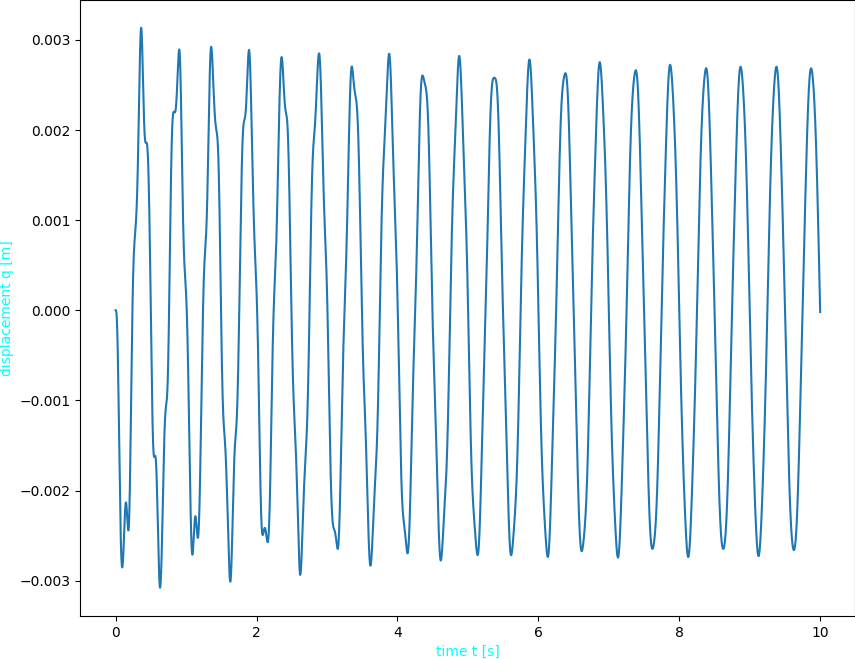
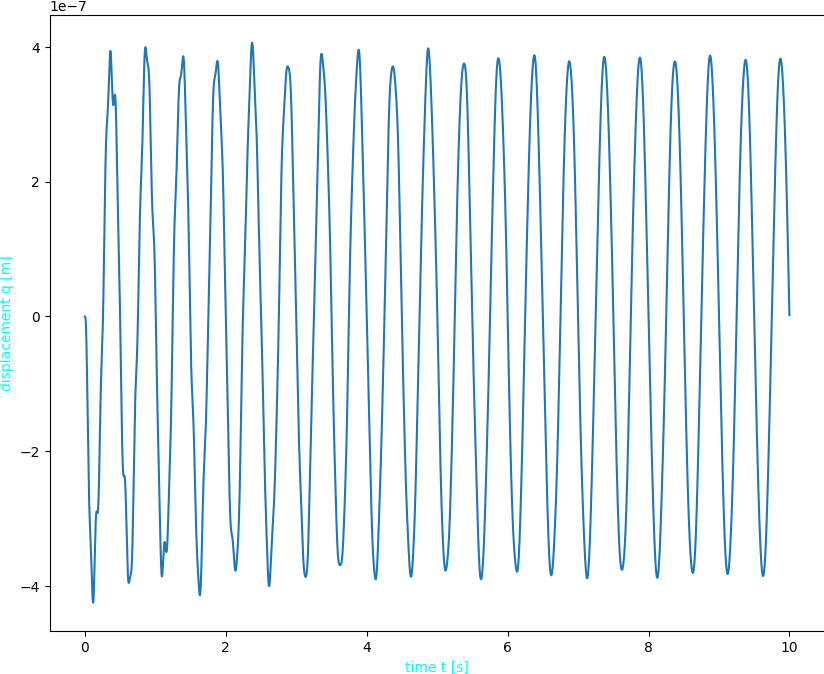
Craig bampton + Guyan Iron ok

diff --git a/part3/reduction_method.py b/part3/reduction_method.py
@@ -17,40 +17,51 @@ sys.path.append(parent_dir)
 from part1 import FEM, set_parameters
 from Tools_part3 import *
 
+
 def partition_matrices(K, M, retained_dofs):
 
     n = K.shape[0]
     condensed_dofs = np.array(sorted(list(set(range(n)) - set(retained_dofs))))
     retained_dofs = np.array(sorted(retained_dofs))
     
-    K_CC = K[np.ix_(condensed_dofs, condensed_dofs)] 
-    K_CR = K[np.ix_(condensed_dofs, retained_dofs)]   
-    K_RC = K[np.ix_(retained_dofs, condensed_dofs)]   
-    K_RR = K[np.ix_(retained_dofs, retained_dofs)]   
-    
-    M_CC = M[np.ix_(condensed_dofs, condensed_dofs)]
-    M_CR = M[np.ix_(condensed_dofs, retained_dofs)]
-    M_RC = M[np.ix_(retained_dofs, condensed_dofs)]
-    M_RR = M[np.ix_(retained_dofs, retained_dofs)]
-    
+    K_CC = K[condensed_dofs][:, condensed_dofs]
+    K_CR = K[condensed_dofs][:, retained_dofs]
+    K_RC = K[retained_dofs][:, condensed_dofs]
+    K_RR = K[retained_dofs][:, retained_dofs]
+
+    M_CC = M[condensed_dofs][:, condensed_dofs]
+    M_CR = M[condensed_dofs][:, retained_dofs]
+    M_RC = M[retained_dofs][:, condensed_dofs]
+    M_RR = M[retained_dofs][:, retained_dofs]
+  
     return (K_CC, K_CR, K_RC, K_RR), (M_CC, M_CR, M_RC, M_RR), condensed_dofs, retained_dofs
 
-def GuyanIronsReduction(K, M, retained_dofs):
+def GuyanIronsReduction(K_parts, M_parts, condensed_dofs, retained_dofs):
 
-    K_parts, M_parts, condensed_dofs, retained_dofs = partition_matrices(K, M, retained_dofs)
     K_CC, K_CR, K_RC, K_RR = K_parts
     M_CC, M_CR, M_RC, M_RR = M_parts
+    
+    # Rearrange K and M 
+    K_top = hstack([K_RR, K_RC]) 
+    K_bot = hstack([K_CR, K_CC])
+    K_tild = vstack([K_top, K_bot])
 
+    M_top = hstack([M_RR, M_RC]) 
+    M_bot = hstack([M_CR, M_CC])
+    M_tild = vstack([M_top, M_bot])
+
+    # Compute transformation matrix R
     K_CC_inv = sp.sparse.linalg.inv(K_CC.tocsc())    
     phi_s = -K_CC_inv @ K_CR
-    
     n_r = len(retained_dofs)
-    I = eye(n_r, format='csr')
-    R = vstack([I, csr_matrix(phi_s)])
+    I = eye(np.shape(phi_s)[1], format='csr')
+    R = vstack([I, phi_s])
     
-    K_red = (R.T @ K @ R).tocsr()
-    M_red = (R.T @ M @ R).tocsr()
+    # Reduce K and M
+    K_red = (R.T @ K_tild @ R).tocsr()
+    M_red = (R.T @ M_tild @ R).tocsr()
     
+    # Compute reduced eigen_values
     eigen_values, eigen_vectors = eigsh(K_red, k=6, M=M_red, sigma=0, which='LM')
     frequencies = np.sqrt(np.abs(eigen_values)) / (2 * np.pi)
     idx = np.argsort(frequencies)
@@ -59,53 +70,42 @@ def GuyanIronsReduction(K, M, retained_dofs):
     
     return frequencies, eigen_vectors
 
+def CraigBamptonReduction(K_parts, M_parts, condensed_dofs, n_modes):
 
-def CraigBamptonReduction(K, M, retained_dofs, n_modes):
+    K_CC, K_CR, K_RC, K_RR = K_parts
+    M_CC, M_CR, M_RC, M_RR = M_parts
 
-    n = K.shape[0]
-    all_dofs = np.arange(n)
-    condensed_dofs = np.setdiff1d(all_dofs, retained_dofs)
+    # Rearrange K and M 
+    K_top = hstack([K_RR, K_RC]) 
+    K_bot = hstack([K_CR, K_CC])
+    K_tild = vstack([K_top, K_bot])
+
+    M_top = hstack([M_RR, M_RC]) 
+    M_bot = hstack([M_CR, M_CC])
+    M_tild = vstack([M_top, M_bot])
     
-    perm = np.concatenate((retained_dofs, condensed_dofs))
-    Kpp = K[np.ix_(perm, perm)]
-    Mpp = M[np.ix_(perm, perm)]
+    static_eigvals, static_eigvect = linalg.eigsh(K_CC.tocsc(), k=n_modes, M=M_CC.tocsc(), sigma=0, which='LM')
     
-    nr = len(retained_dofs)
-    Krr = Kpp[:nr, :nr]
-    Krc = Kpp[:nr, nr:]
-    Kcr = Kpp[nr:, :nr]
-    Kcc = Kpp[nr:, nr:]
+    # Compute transformation matrix R
+    n_c = len(condensed_dofs)
+    n_r = K_RR.shape[0]
+    K_CC_inv = sp.sparse.linalg.inv(K_CC.tocsc())    
+    phi_s = -K_CC_inv @ K_CR
+
+    I = eye(n_r, format='csr')
+    O = sp.sparse.csr_matrix((n_r, n_modes))
+    R_top = hstack([I, O])
+    R_bot = hstack([phi_s, static_eigvect[:, :n_modes]])
+    R = vstack([R_top, R_bot])
+
+    K_reduced = R.T @ K_tild @ R
+    M_reduced = R.T @ M_tild@ R
     
-    Mrr = Mpp[:nr, :nr]
-    Mrc = Mpp[:nr, nr:]
-    Mcr = Mpp[nr:, :nr]
-    Mcc = Mpp[nr:, nr:]
-    
-    A = -linalg.spsolve(Kcc.tocsc(), Kcr)
-    I = sp.eye(nr)
-    
-    # Calculer les modes normaux à interface fixe (Craig-Bampton)
-    eigen_values, eigen_vectors = linalg.eigsh(Kcc.tocsc(), k=n_modes, M=Mcc.tocsc(), sigma=0, which='LM')
-    
-    # Normaliser les vecteurs propres
-    for i in range(n_modes):
-        eigen_vectors[:, i] /= np.sqrt(eigen_vectors[:, i].T @ Mcc @ eigen_vectors[:, i])
-    
-    # Construire la matrice de réduction R
-    R = sp.bmat([[I, sp.csr_matrix((nr, n_modes))],
-                 [A, eigen_vectors]])
-    
-    # Réduire les matrices
-    K_reduced = R.T @ Kpp @ R
-    M_reduced = R.T @ Mpp @ R
-    
-    # Résoudre le problème aux valeurs propres réduit
-    eigen_values, eigen_vectors = linalg.eigsh(K_reduced, k=nr, M=M_reduced, sigma=0, which='LM')
-    
-    # Tri et conversion en Hz
+    eigen_values, eigen_vectors = linalg.eigsh(K_reduced, k=n_modes, M=M_reduced, sigma=0, which='LM')
     eigen_values = np.sqrt(np.sort(eigen_values.real)) / (2 * np.pi)
     order = np.argsort(eigen_values)
     sorted_eigen_vectors = eigen_vectors.real[:, order]
     
     return eigen_values, sorted_eigen_vectors
+    
 

diff --git a/part3/main_part3.py b/part3/main_part3.py
@@ -47,17 +47,26 @@ def main():
                        nodes_retained[3]: ["u", "v", "w"],
                        nodes_retained[4]: ["u", "v", "w"]}
     
-    
-    retained_dofs = retainedDOF(nodes_retained, node_dof_config, nodes_clamped)
-    freq_gi, modes_gi = GuyanIronsReduction(K, M, retained_dofs)
 
+
+    # Separate K,M w.r.t. condensed/retained dofs
+    retained_dofs = retainedDOF(nodes_retained, node_dof_config, nodes_clamped)
+    print(retained_dofs)
+
+    K_parts, M_parts, condensed_dofs, retained_dofs = partition_matrices(K, M, retained_dofs)
+
+    freq_gi, modes_gi = GuyanIronsReduction(K_parts, M_parts, condensed_dofs, retained_dofs)
+    freq_cb, modes_cb = CraigBamptonReduction(K_parts, M_parts, condensed_dofs,n_modes=4)
+    
     print("True frequencies:")
     print(freq_init)
 
-    print("\nfrequencies by guyan irons")
+    print("\nfrequencies by Guyan Irons:")
     print(freq_gi)
-    #freq_cb, modes_cb = CraigBamptonReduction(K, M, retained_dofs, n_modes=4)
-    #print(np.abs(freq_init-freq_gi))
+
+    print("\nfrequencies by Craig Bampton:")
+    print(freq_cb)
+    
     
 
 

diff --git a/part2/main_part2.py b/part2/main_part2.py
@@ -41,8 +41,8 @@ def main():
     params = {"m_tot":9*80, "h":0.2, "g":9.81, "dt":0.1, "freq":2}
     nb_modes = 6
 
-    nodes_force = [23, 24]
-    nodes_obs = [23, 11]
+    nodes_force = [10, 11]
+    nodes_obs = [10, 23]
     nodes_clamped = [0, 1, 6, 7, 12, 13]
 
     a, b, C = dampingMatrix(K, M, 2*pi*frequencies[0], 2*pi*frequencies[1])
@@ -69,9 +69,6 @@ def main():
 
     eta, phi, mu  = etaPhiMu(2*pi*frequencies, modes, epsilon, M, F, t_span, nb_modes)
 
-
-    print(mu)
-
     q = modeDisplacementMethod(ax, t_span, eta, modes, nb_modes, z_dir, save=True, github=True)
     q_acc = modeAccelerationMethod(ax, t_span, eta, 2*pi*frequencies, modes, K, phi, F, nb_modes, z_dir, save=True, github=True)
     #M_norm = mNorm(ax, t_span, eta, mu, nb_modes, z_dir, save=True, github=True)
@@ -90,6 +87,7 @@ def main():
     #convergence(eta, modes, 2*pi*frequencies, K, phi, F, t_span, nb_modes, z_dir)
     #FFTNewmark(q_nm[z_dir,:], t_span) 
 
+    plt.plot(t_span,q[z_dir,:])
     ax.set_xlabel('time t [s]', color='black')
     ax.set_ylabel('displacement q [m]', color='black')
     plt.legend(loc = 'best')
